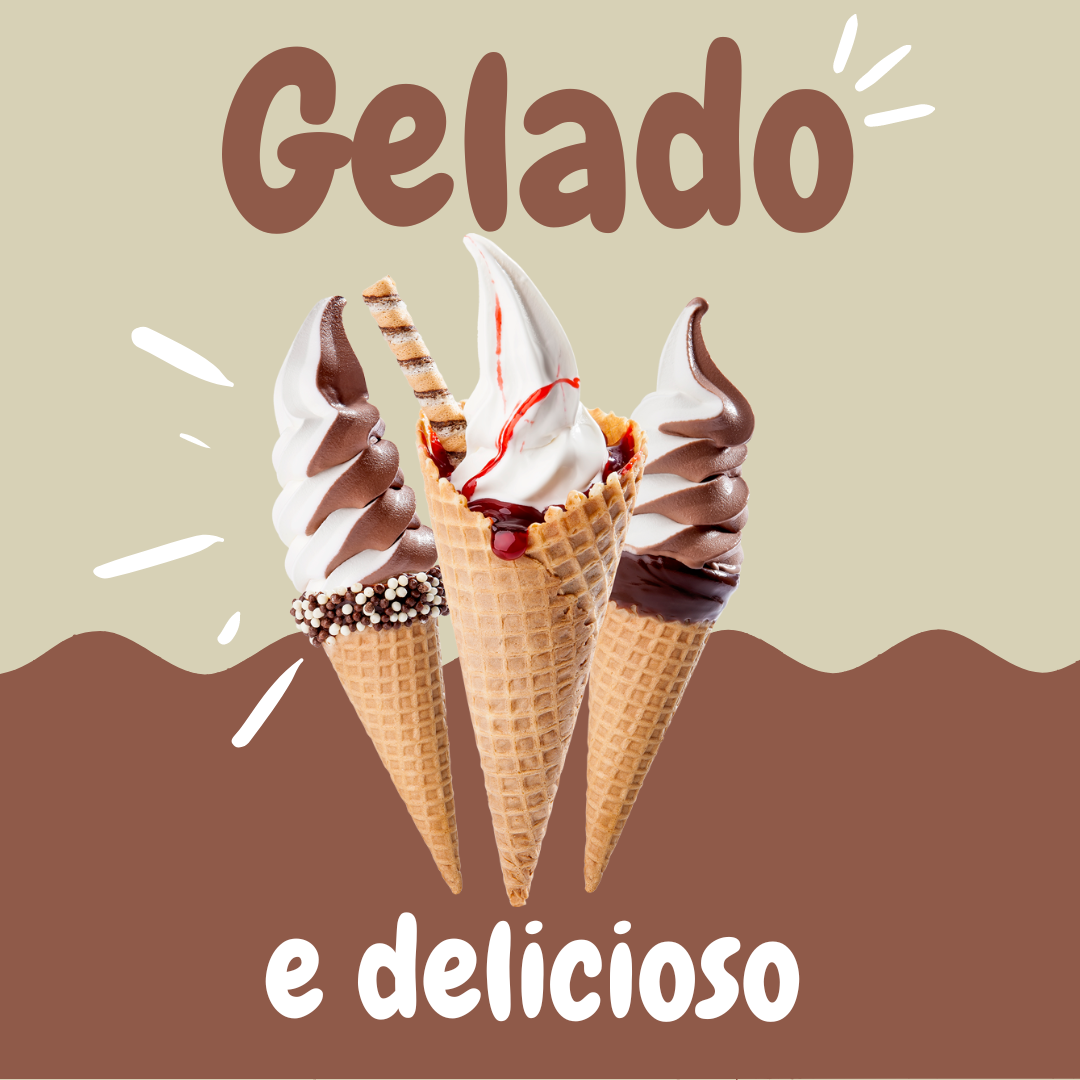
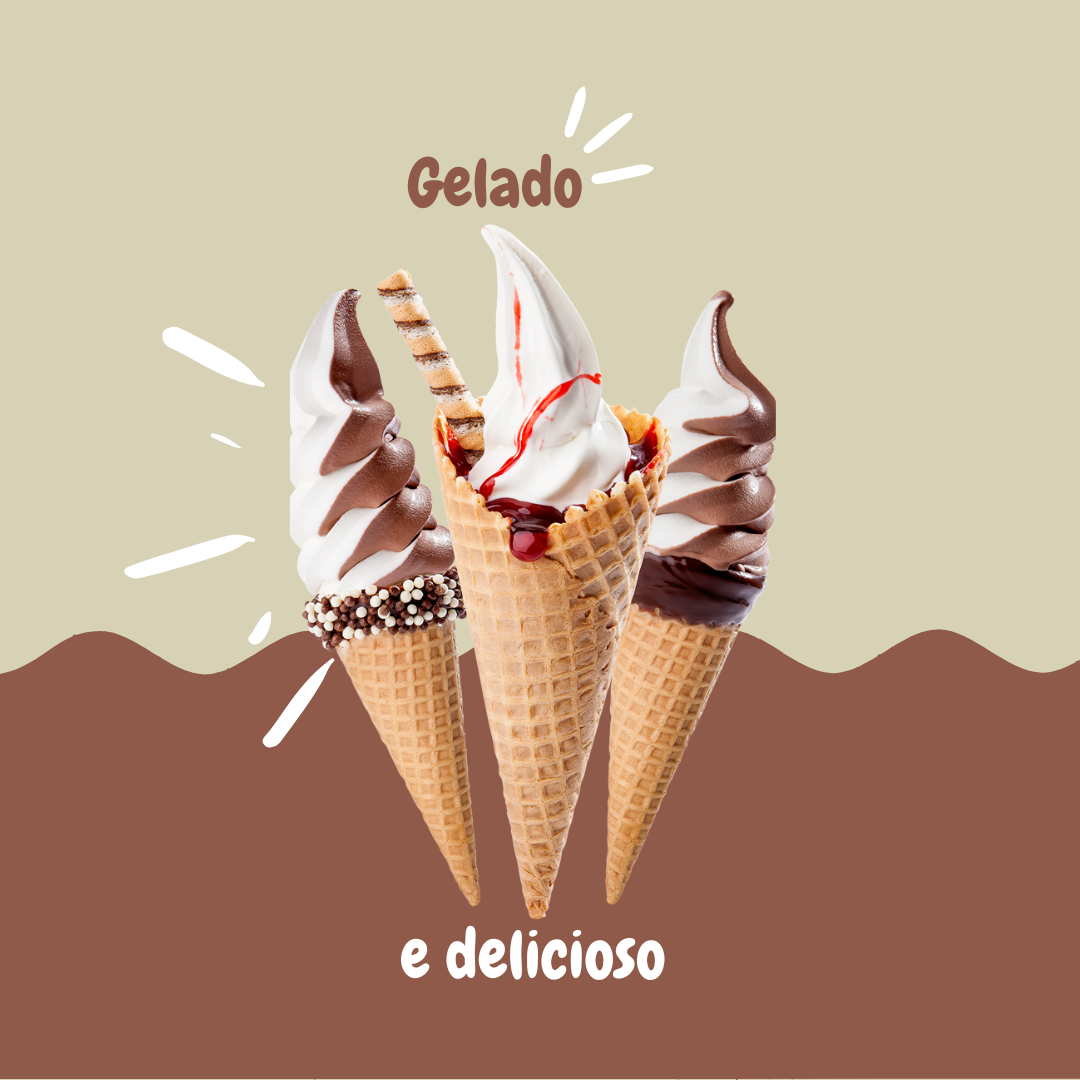
Alteração nas IMGs do Carousel

Changed region(s): [[0.0917, 0.0, 0.8556, 0.9472], [0.1833, 0.3972, 0.2139, 0.4278]]

diff --git a/styles.css b/styles.css
@@ -395,21 +395,38 @@
       }
 
 
+      /* Para telas até 540px */
+      @media (max-width: 540px) {
+        .carousel-images img:nth-child(1) {
+            content: url('img/Banner-A-small.png');
+        }
 
-      @media (max-width: 768px) {
-        .carousel-images img {
-          /* Alterando as imagens para versões específicas para telas menores */
-          content: url('img/Banner-1-small.png');
-        }
-      
         .carousel-images img:nth-child(2) {
-          content: url('img/Banner-2-small.png');
+            content: url('img/Banner-B-small.png');
         }
-      
+
         .carousel-images img:nth-child(3) {
-          content: url('img/Banner-3-small.png');
+            content: url('img/Banner-C-small.png');
         }
       }
+
+      /* Para telas entre 541px e 768px */
+      @media (min-width: 541px) and (max-width: 768px) {
+        .carousel-images img:nth-child(1) {
+            content: url('img/Banner-1-small.png');
+        }
+
+        .carousel-images img:nth-child(2) {
+            content: url('img/Banner-2-small.png');
+        }
+
+        .carousel-images img:nth-child(3) {
+            content: url('img/Banner-3-small.png');
+        }
+      }
+
+      
+
       
       
     
